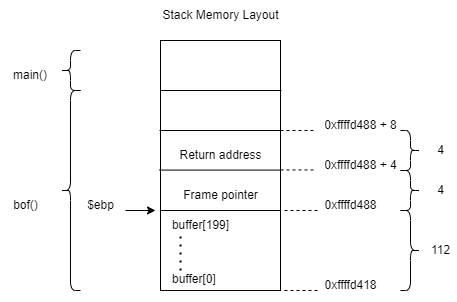
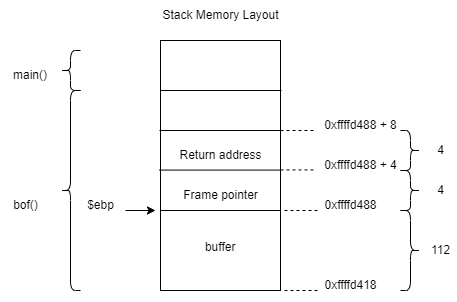
update explanations, images, blog post

Changed region(s): [[0.3676, 0.7152, 0.5208, 0.7748], [0.3676, 0.894, 0.4902, 0.9536], [0.4289, 0.8046, 0.5208, 0.8344]]

diff --git a/_posts/2024-08-07-server-overflow.md b/_posts/2024-08-07-server-overflow.md
@@ -74,15 +74,23 @@ Software: VirtualBox
 - Message returned by container:
   <img src='/images/benignreturn.png'>
 
-- Based on figure 1 and the message returned by the container, we can tell that:
+- Based on the message returned by the container, we can tell that:
 
   - Distance between $ebp and buffer's starting address is : <br>
     0xffffd488 - 0xffffd418 = 112
-  - return address is store 4 bytes above the $ebp, starting from off set 116, ending at offset 120 <br>
+  - return address starting from offset 116, ending at offset 120 and located at 0xffffd488+4 <br>
+  - the first address that we can jump too will be 0xffffd488+8
     <img src='/images/stackmemorylayout.png'>
 
 - exploit.py file:
   <img src='/images/exploit1file.png'>
 
+  - The shellcode is put at the end of badfile.
+  - The size of the shellcode in this 32-bit version is 136 bytes, so we can tell that the shellcode is located within the offset [380-516]
+  - We want to replace the original return address that is located at offset[116-120] with our desired return address.
+  - Since the first address we can jump to is 0xffffd488+8, any number within range[8-264] will work well in our case. I chose 200.
+
 - As result, we succeed getting root shell on the target server:
   <img src='/images/exploit1succeed.png'>
+
+## Task 3: Level-2 Attack
